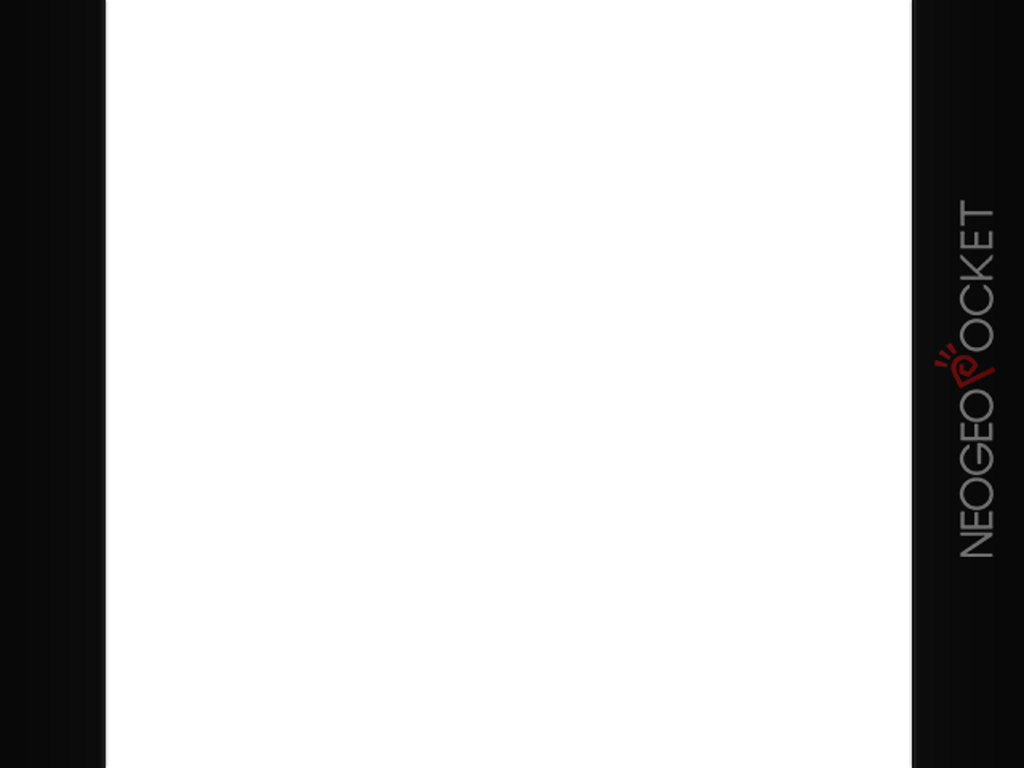
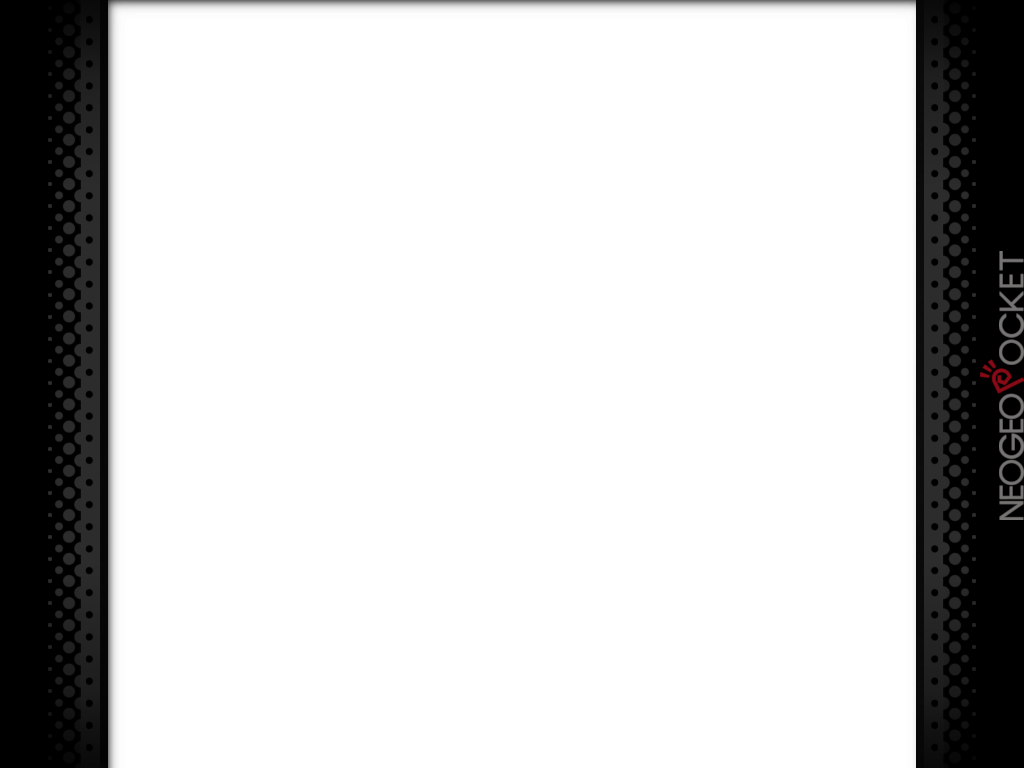
Replaced 4:3 NGP(C) bezels with new version by mugwomp93

Changed region(s): [[0.0625, 0.0, 1.0, 1.0]]

diff --git a/README.md b/README.md
@@ -170,8 +170,8 @@ All bezels have been upscaled by [chrizzo-hb](https://github.com/chrizzo-hb) to 
 | Atari Lynx (horizontal) | `lynx-4_3` | Overlay by [drkhrse](https://github.com/drkhrse/drkhrse_miyoo_bezels), converted to Batocera format by [nvitaterna](https://github.com/nvitaterna/batocera_4_3_handheld_bezels) |
 | Atari Lynx (vertical)| `lynx-4_3` | by [Duimon](https://github.com/Duimon) for [Batocera Bezels](https://github.com/batocera-linux/batocera-bezel), published under a [Creative Commons Attribution-NonCommercial-NoDerivatives 4.0 International License](https://creativecommons.org/licenses/by-nc-nd/4.0/) |
 | Megaduck | `megaduck-4_3` | Overlay by [drkhrse](https://github.com/drkhrse/drkhrse_miyoo_bezels), converted to Batocera format by [chrizzo-hb](https://github.com/chrizzo-hb) |
-| NeoGeo Pocket | `ngp-4_3` | Overlay by [drkhrse](https://github.com/drkhrse/drkhrse_miyoo_bezels), converted to Batocera format by [nvitaterna](https://github.com/nvitaterna/batocera_4_3_handheld_bezels) |
-| NeoGeo Pocket Color | `ngpc-4_3` | Overlay by [drkhrse](https://github.com/drkhrse/drkhrse_miyoo_bezels), converted to Batocera format by [nvitaterna](https://github.com/nvitaterna/batocera_4_3_handheld_bezels) |
+| NeoGeo Pocket | `ngp-4_3` | Overlay by [mugwomp93](https://github.com/mugwomp93) |
+| NeoGeo Pocket Color | `ngpc-4_3` | Overlay by [mugwomp93](https://github.com/mugwomp93) |
 | Pico-8 | `pico8-4_3` | Overlay by [drkhrse](https://github.com/drkhrse/drkhrse_miyoo_bezels), converted to Batocera format by [nvitaterna](https://github.com/nvitaterna/batocera_4_3_handheld_bezels) |
 | PlayStation Portable | `psp-4_3` | Overlay by [chrizzo-hb](https://github.com/chrizzo-hb) |
 | Pokemon Mini | `pokemini-4_3` | Overlay by [drkhrse](https://github.com/drkhrse/drkhrse_miyoo_bezels), converted to Batocera format by [nvitaterna](https://github.com/nvitaterna/batocera_4_3_handheld_bezels) |